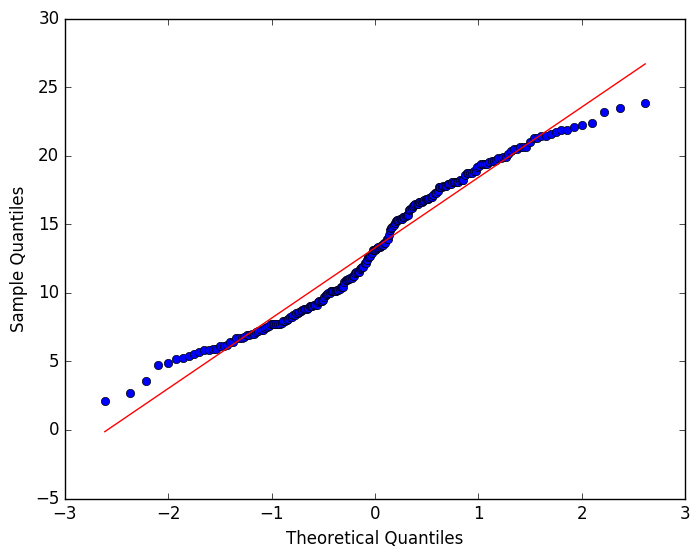
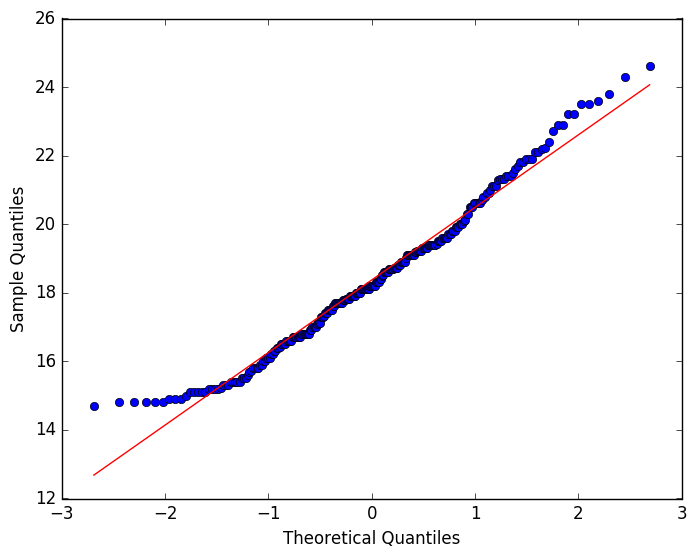
simulation added

diff --git a/Lab1/Tools/params_estimation.py b/Lab1/Tools/params_estimation.py
@@ -4,8 +4,9 @@ import copy
 import random
 from statistics import median
 from scipy.stats import norm, lognorm, triang
-
+from Lab1.Tools import Simulator
 import time
+
 
 def normal_distrib(m, s, x):
     return 1 / (math.sqrt(2 * math.pi) * s) * math.exp(-(x - m) ** 2 / (2 * s ** 2))
@@ -46,36 +47,35 @@ class Estimator:
             m = list_of_samples[-1]
             del list_of_samples[-1]
             list_of_samples[-1] += m
-        list_of_names = ["moments", "mle", "quintiles"]
+        list_of_names = ["moments"] #, "mle", "quintiles"]
         for method in list_of_names:
-            res_list_of_samples, mean, std = self.method_of_estimation(list_of_samples, method, "normal")
+            res_list_of_samples, mean, std = self.method_of_estimation(list_of_samples, method)
             self.show_result(res_list_of_samples, [i / 5 for i in range(130)], mean, std, method)
-            for i in range(len(list_of_samples)):
-                print(mean[i], std[i])
-                self.get_q_q_plot(list_of_samples[i], [mean[i], std[i]], 'qq_plot_' + method + str(i))
+            for i in range(len(res_list_of_samples)):
+                self.get_q_q_plot(res_list_of_samples[i], [mean[i], std[i]], 'qq_plot_' + method + str(i))
 
     def show_result(self, res_list_of_samples, int, mean, sd, method, type='normal'):
         arr = []
         for i in range(len(mean)):
             tmp_arr = []
-            if type == 'normal':
-                for x in int:
-                    tmp_arr += [normal_distrib(mean[i], sd[i], x)]
-                arr += [tmp_arr]
-            else:
-                for x in int:
-                    tmp_arr += log_normal_distrib(mean[i], sd[i], x)
-                arr += [tmp_arr]
+            for x in int:
+                tmp_arr += [normal_distrib(mean[i], sd[i], x)]
+            arr += [tmp_arr]
         names = []
         for i in range(len(mean)):
             names += ['Gaussian' + str(i)]
         nbins = [17, 4, 17]
         if method == 'quintiles':
-            nbins = [10,10,10]
-        # for i in range(len(arr)):
-        #     sample_plot(res_list_of_samples[i], int, arr[i], "Samples" + str(i) + "_div" + "_" + method + ".png",
-        #                 nbins[i])
+            nbins = [10, 10, 10]
+        for i in range(3):
+            sample_plot(res_list_of_samples[i], int, arr[i], "Samples" + str(i) + "_div" + "_" + method + ".png",
+                        nbins[i])
         # plot_on_one_graph(self.values, int, arr, 'Samples_divided.png', names)
+        if method == 'moments':
+            s = Simulator(res_list_of_samples, mean, sd)
+            for i in range(10):
+                # s.method_of_inverse_function(i)
+                s.geometrical_method(i)
 
     def method_of_estimation(self, list_of_samples, method='moments', type='normal'):
         """
@@ -94,10 +94,9 @@ class Estimator:
                 if not list_of_samples[i]:
                     ind += [i]
             if ind != []:
-                print(ind,len(list_of_samples))
-                if len(ind)==1:
+                if len(ind) == 1:
                     del list_of_samples[ind[0]]
-                elif len(ind)==2:
+                elif len(ind) == 2:
                     del list_of_samples[ind[-1]]
                     del list_of_samples[ind[0]]
             for sample in list_of_samples:
@@ -108,10 +107,9 @@ class Estimator:
                 if method == "mle":
                     mean += [m.mean]
                     standard_dev += [m.biased_variance ** (1 / 2)]
-                    print(m.biased_variance)
                 if method == "quintiles":
                     standard_dev += [m.iqr / 1.34]
-                    mean += [m.count_quintile(0.75)-(0.67*(m.iqr / 1.34))]
+                    mean += [m.count_quintile(0.75) - (0.67 * (m.iqr / 1.34))]
             new_list_of_samples = []
             for y in range(len(list_of_samples)):
                 new_list_of_samples += [[]]

diff --git a/Lab1/Tools/simulation.py b/Lab1/Tools/simulation.py
@@ -1,21 +1,60 @@
 import scipy.stats
+import numpy as np
+import math
+from .vis import *
+
+
+def normal_distrib(m, s, x):
+    return 1 / (math.sqrt(2 * math.pi) * s) * math.exp(-(x - m) ** 2 / (2 * s ** 2))
 
 
 class Simulator:
 
-    def __init__(self, list_of_samples, list_of_means, list_of_stds):
-        self.samples = list_of_samples
+    def __init__(self, res_list_of_samples, list_of_means, list_of_stds):
+        self.samples = res_list_of_samples
         self.means = list_of_means
         self.stds = list_of_stds
 
-    def process_samples(self):
-        pass
+    def sample_boxmiller(self, iter=0):
+        array_of_vals = []
+        for i in range(len(self.samples)):
+            num = 0
+            tmp_min = min(i)
+            tmp_max = max(i)
+            while (num < len(self.samples[i])):
+                u = np.random.uniform(0, 1, 2)
+                x = math.cos(2 * np.pi * u[0]) * math.sqrt(-2 * math.log(u[1]))
+                s = self.means[i] + self.stds[i]*x
+                if s >= tmp_min and s <= tmp_max:
+                    array_of_vals += [s]
+                    num += 1
+            plot_histogram(array_of_vals, 'boxmiller_estimation' + str(iter) + '.png')
 
-    def piecewize_discretisation(self):
-        pass
+    def method_of_inverse_function(self, iter=0):
+        array_of_vals = []
+        for i in range(len(self.samples)):
+            num = 0
+            tmp_min = min(self.samples[i])
+            tmp_max = max(self.samples[i])
+            while (num < len(self.samples[i])):
+                s = np.random.normal(self.means[i], self.stds[i], 1)[0]
+                if s >= tmp_min and s <= tmp_max:
+                    array_of_vals += [s]
+                    num += 1
+        plot_histogram(array_of_vals, 'inverse_func_estimation' + str(iter) + '.png')
 
-    def method_of_inverse_function(self):
-        pass
-
-    def geometrical(self):
-        pass
+    def geometrical_method(self, iter=0):
+        array_of_vals = []
+        for i in range(len(self.samples)):
+            num = 0
+            tmp_min = min(self.samples[i])
+            tmp_max = max(self.samples[i])
+            min_prob = 0
+            max_prob = normal_distrib(self.means[i], self.stds[i], self.means[i])
+            while (num < len(self.samples[i])):
+                x = np.random.uniform(low=tmp_min, high=tmp_max+1, size=1)[0]
+                y = np.random.uniform(low=min_prob, high=max_prob-0.006, size=1)[0]
+                if normal_distrib(self.means[i], self.stds[i], x) <= y:
+                    array_of_vals += [x]
+                    num += 1
+        plot_histogram(array_of_vals, 'geometrical_estimation' + str(iter) + '.png')

diff --git a/Lab1/Tools/vis.py b/Lab1/Tools/vis.py
@@ -1,7 +1,3 @@
-"""
-
-"""
-
 from plotly.plotly import image
 from plotly.offline import download_plotlyjs, plot
 import plotly.graph_objs as go
@@ -18,12 +14,14 @@ path_to_figure = 'Figures\\'
 
 def plot_histogram(sample, name):
     x = np.array(sample)
-    data = [go.Histogram(x=x, histnorm='probability')]
+    data = [go.Histogram(x=x, histnorm='probability',autobinx=False,
+                         xbins=dict(start=0, end=26, size=26 / 18))]
     layout = dict(
         xaxis=dict(title="values")
     )
     fig = go.Figure(data=data, layout=layout)
-    image.save_as(fig, filename=path_to_figure + name)
+    plot(fig, filename=name + '.html')
+    # image.save_as(fig, filename=path_to_figure + name)
 
 
 def plot_kernel_density(sample, y, name):
@@ -50,7 +48,7 @@ def sample_plot(sample, x, y, name, nbinsx=20):
     data = [go.Histogram(x=sample, histnorm='probability', nbinsx=nbinsx)]
     data += trace
     fig = go.Figure(data=data, layout=layout)
-    plot(fig)
+    plot(fig, filename=name + ".html")
     # image.save_as(fig, filename=path_to_figure + name)
 
 
@@ -68,12 +66,12 @@ def plot_on_one_graph(sample, xx, y, name, kernels):
     # data = [go.Histogram(x=x, histnorm='probability')]
     data = trace_list
     fig = go.Figure(data=data)
-    plot(fig)
+    plot(fig, name + ".html")
     # image.save_as(fig, filename=path_to_figure + name)
 
 
-def q_q_biplot_test(sample, theory_params,name):
-    sm.qqplot(np.array(sample),line='s', loc=theory_params[0], scale=theory_params[1])
+def q_q_biplot_test(sample, theory_params, name):
+    sm.qqplot(np.array(sample), line='s', loc=theory_params[0], scale=theory_params[1])
     pylab.savefig(path_to_figure + name, bbox_inches='tight')
 
 

diff --git a/Lab1/main.py b/Lab1/main.py
@@ -1,5 +1,3 @@
-from Tools import *
-import numpy as np
 import asciitable
 import random
 
@@ -17,9 +15,7 @@ def main():
     max_deg = [x + 0.01 * random.random() for x in max_deg]
     m = Distribution(max_deg)
     # m.show_histogram()
-
     # m.kernel_density(1)
-
     est = Estimator(max_deg)
     est.divide_subset(3)
 

diff --git a/Lab1/Tools/stats.py b/Lab1/Tools/stats.py
@@ -84,7 +84,6 @@ class Distribution:
         self.count_median()
         self.count_variance()
         self.standard_deviation = math.sqrt(self.variance)
-        #self.count_quartile()
         self.count_biased_variance()
         self.count_iqr()
 

diff --git a/Lab1/Tools/__init__.py b/Lab1/Tools/__init__.py
@@ -1,3 +1,4 @@
 from .stats import *
+from .simulation import *
 from .vis import *
 from .params_estimation import *
